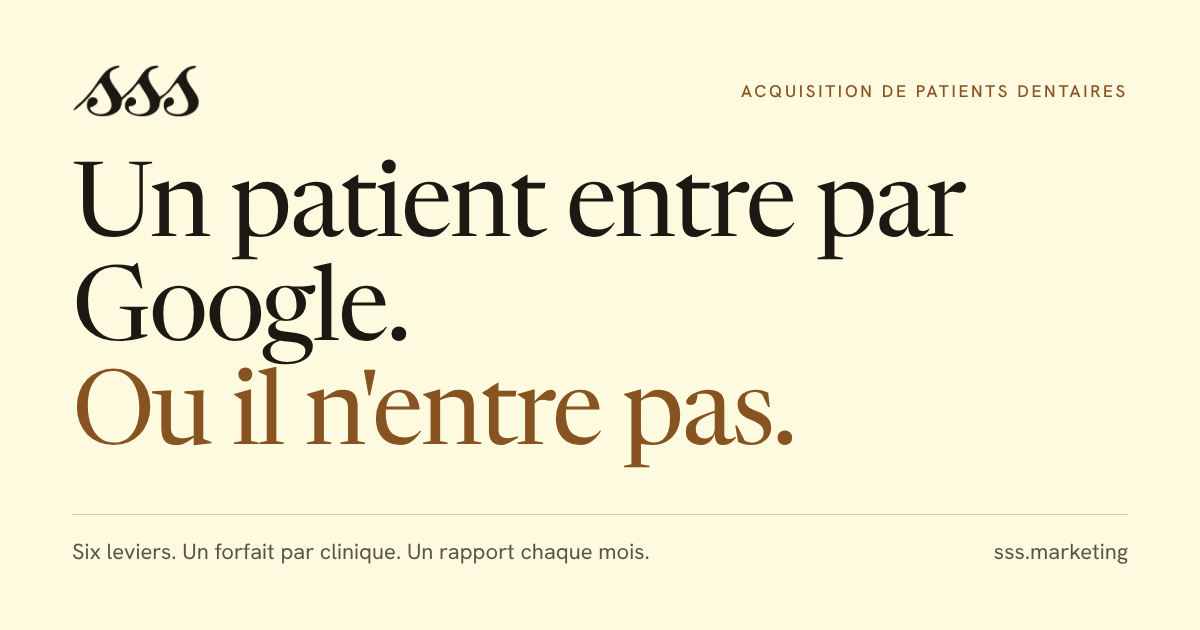
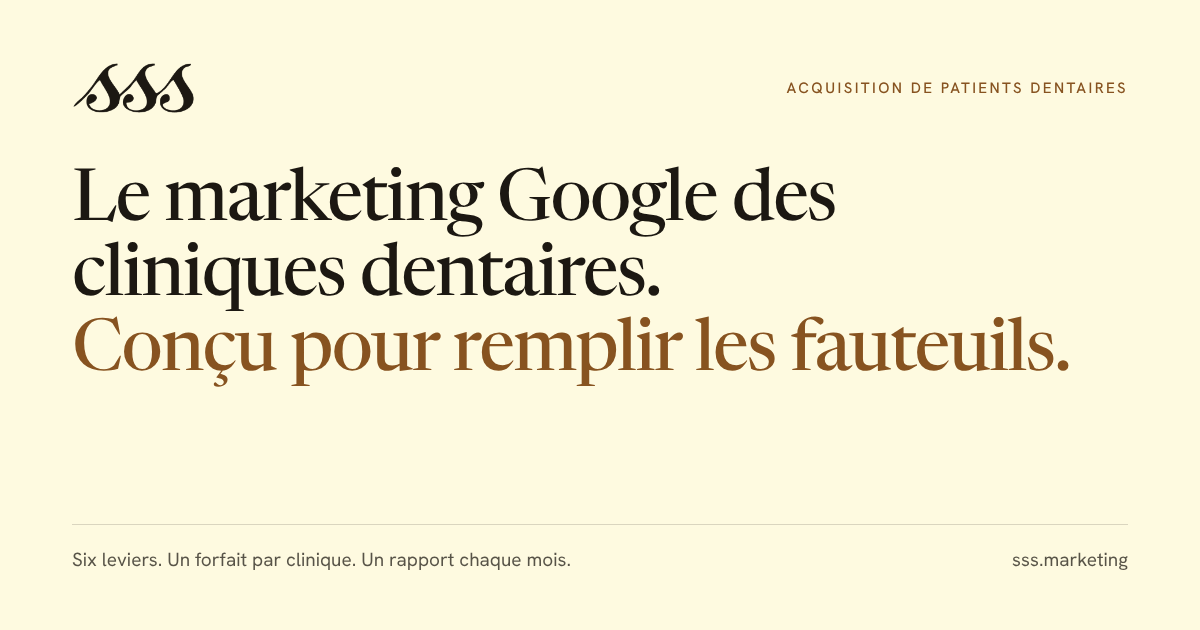
Hero: replace the Google-only through-line with a true category line
- h1: 'Le marketing Google des cliniques dentaires. Conçu pour remplir les
  fauteuils.' / 'Google marketing for dental clinics. Built to fill the
  chairs.' Drops the claim that patients only arrive through Google.
- Sub-line leads with six levers and one plan, then the free calculator.
- Share image (og-image.png) and its alt text rebuilt with the new line.
- Hero h1 scaled to clamp(40px,5.2vw,76px) so the button stays well
  inside the first screen.

Claude-Session: https://claude.ai/code/session_01Rx5PrpQEpyidQhLfgWf2gc

diff --git a/index.html b/index.html
@@ -35,7 +35,7 @@
 <meta property="og:image" content="https://sss.marketing/og-image.png">
 <meta property="og:image:width" content="1200">
 <meta property="og:image:height" content="630">
-<meta property="og:image:alt" content="SSS. Un patient entre par Google. Ou il n'entre pas.">
+<meta property="og:image:alt" content="SSS. Le marketing Google des cliniques dentaires, conçu pour remplir les fauteuils.">
 
 <!-- Twitter -->
 <meta name="twitter:card" content="summary_large_image">
@@ -282,7 +282,7 @@ nav.scrolled{padding:12px 0;border-bottom-color:var(--rule)}
 .hero-sheet{grid-column:9 / span 4}
 .hero-copy > .label{display:block;margin-bottom:28px}
 .hero h1{
-  font-size:clamp(42px,6.3vw,90px);line-height:1.0;letter-spacing:-0.025em;
+  font-size:clamp(40px,5.2vw,76px);line-height:1.02;letter-spacing:-0.025em;
   color:var(--ink);margin-bottom:32px;
 }
 .hero h1 span{display:block;text-wrap:balance}
@@ -1124,8 +1124,8 @@ footer{background:var(--forest);color:var(--paper);padding:72px 0 44px}
     <div class="grid hero-grid">
       <div class="hero-copy">
         <span class="label fade-in" data-i="eyebrow">Acquisition de patients dentaires</span>
-        <h1 class="fade-in d1"><span class="h1-a" data-i="heroTitle">Un patient entre par Google.</span> <span class="h1-b" data-i="heroTitleAccent">Ou il n'entre pas.</span></h1>
-        <p class="hero-sub fade-in d2" data-i="heroSub">Une agence qui ne fait que du dentaire. Commencez par le calculateur RCSD : installé sur votre site, gratuitement, pendant un appel de 30 minutes.</p>
+        <h1 class="fade-in d1"><span class="h1-a" data-i="heroTitle">Le marketing Google des cliniques dentaires.</span> <span class="h1-b" data-i="heroTitleAccent">Conçu pour remplir les fauteuils.</span></h1>
+        <p class="hero-sub fade-in d2" data-i="heroSub">Six leviers de croissance, un forfait par clinique. Commencez par le calculateur RCSD : installé gratuitement sur votre site, pendant un appel de 30 minutes.</p>
         <div class="hero-cta-row fade-in d3">
           <a href="#contact" class="cta-primary">
             <span data-i="heroCta">Réserver l'installation gratuite</span>
@@ -1784,8 +1784,8 @@ footer{background:var(--forest);color:var(--paper);padding:72px 0 44px}
 <script>
 (function(){
   const i18n = {
-    fr:{"metaTitle":"SSS | Acquisition de patients pour cliniques dentaires","metaDesc":"Agence marketing qui ne fait que du dentaire. Calculateur RCSD gratuit pour votre site. Six leviers de croissance, 450 $ par mois par clinique.","skipLink":"Aller au contenu","navMethod":"Méthode","navPricing":"Forfait","navTeam":"Équipe","cta":"Calculateur gratuit","eyebrow":"Acquisition de patients dentaires","heroTitle":"Un patient entre par Google.","heroTitleAccent":"Ou il n'entre pas.","heroSub":"Une agence qui ne fait que du dentaire. Commencez par le calculateur RCSD : installé sur votre site, gratuitement, pendant un appel de 30 minutes.","heroCta":"Réserver l'installation gratuite","heroCtaNote":"Gratuit. Sur Google Meet. Sans engagement.","sheetDay":"Un mardi","sheetChair":"Fauteuil 2","sheetR1":"Examen et nettoyage","sheetR2":"Nouveau patient, examen complet","sheetR3":"Urgence, douleur","sheetR4":"Couronne, préparation","sheetR5":"Examen et nettoyage","sheetOpen":"Libre","sheetNote":"Trois plages libres. Ce matin, des gens de votre quartier cherchent un dentiste sur Google.","fact1":"Associés, tous encore en clinique.","fact2Num":"100 %","fact2":"Dentaire. Aucun autre secteur.","fact3":"Leviers de croissance, un seul forfait.","priceNum":"450 $","fact4":"Par mois, par clinique.","problemLabel":"L'occasion","problemTitleA":"Vos prochains patients cherchent déjà un dentiste sur Google.","problemTitleB":"Notre travail : qu'ils vous trouvent, et qu'ils réservent.","prob1":"Une recherche « dentiste d'urgence » à 22 h","prob1Body":"Votre clinique est la première réponse, avec vos heures et un bouton pour appeler.","prob2":"« Est-ce que le RCSD me couvre ? »","prob2Body":"Le calculateur répond sur votre site, avant même l'appel. Le patient arrive en sachant ce qu'il paiera, et votre réception garde son temps pour la clinique.","prob3":"Des résultats que toute l'équipe peut lire","prob3Body":"Un tableau de bord par clinique et un rapport chaque mois, avec la facture. Levier par levier, vous voyez ce que votre budget a produit, et vous décidez avec des chiffres.","servicesLabel":"La méthode","servicesTitle":"Du clic au fauteuil.","servicesIntro":"Six leviers, quatre étapes. Chacun a ses livrables et sa ligne dans le rapport mensuel.","stage1Name":"Être trouvé","stage1Text":"Un patient cherche un dentiste près de chez lui. Vos annonces sont là au moment de la recherche.","stage2Name":"Être choisi","stage2Text":"Devant trois cliniques sur la carte, le patient compare les fiches et lit les avis.","stage3Name":"Être réservé","stage3Text":"Avant d'appeler, le patient veut savoir s'il est couvert. La réponse est sur votre site.","stage4Name":"Être mesuré","stage4Text":"Chaque levier a sa ligne dans le tableau de bord. Le rapport arrive chaque mois.","svc1Name":"Google Ads : Search et Performance Max","svc1Desc":"Mots-clés, annonces et exclusions suivis de près. Jamais laissés en pilote automatique.","svc4Name":"Google Ads : Display","svc4Desc":"Vos bannières devant les patients de votre secteur, entre deux recherches.","svc2Name":"Fiche d'établissement Google","svc2Desc":"Une fiche complète et tenue à jour, avec une réponse à chaque avis.","svc6Name":"Avis Google par plaquette NFC","svc6Desc":"Une plaquette à la réception. Le patient y pose son téléphone et laisse son avis avant de partir.","svc5Name":"RCSD : moteur de conversion interactif","svc5Desc":"L'admissibilité au RCSD en quatre questions, puis la prise de rendez-vous.","svc5Cue":"Essayer l'outil","svc3Name":"Tableau de bord et rapport mensuel","svc3Desc":"Un tableau de bord par clinique et un rapport chaque mois, lisibles par toute l'équipe.","svcDetailCue":"Livrables","detailCloseLabel":"Fermer","processLabel":"Mise en route","processIntro":"De l'audit aux campagnes actives, en trois étapes.","step1Unit":"min","step1Title":"Audit","step1Desc":"Présence Google, concurrents, occasions locales.","step2Anchor":"Plan","step2Title":"Stratégie","step2Desc":"Plan d'action, budget par levier, cibles mensuelles.","step3Unit":"jours","step3Title":"Mise en ligne","step3Desc":"Campagnes actives. Mesure dès le premier mois.","pricingLabel":"Forfait","pricingMo":"Par mois, par clinique","pricingStatement":"Le même forfait pour chaque clinique.","pricingCta":"Réserver un appel de 30 minutes","pricingMail":"Voir tous les tarifs","pf1Label":"Inclus","pf1Value":"Gestion Google","pf1Note":"Search, Display, Performance Max, fiche Google, tableau de bord par clinique, rapport mensuel, plaquette NFC.","pf2Label":"Mise en service","pf2Value":"500 $, une seule fois","pf2Note":"Mise en place clinique par clinique. Une facture par clinique.","pf3Label":"Budget publicitaire","pf3Value":"En sus, facturé au coût","pf3Note":"Votre budget Google, sans majoration. Aucuns frais cachés.","pf4Label":"Calculateur RCSD","pf4Value":"Inclus, sur mesure","pf4Note":"Ajusté à votre grille d'honoraires, aux couleurs de la clinique.","addonsLabel":"Au-delà du forfait","addon2Name":"Architecture SEO multi-succursales","addon2Desc":"Pour les groupes de trois succursales et plus. Sur demande.","filter":"Aucune caméra. Aucun TikTok. Vous restez dentiste.","fitLabel":"SSS n'est pas pour","fit1":"Les cliniques qui courent après les vues et les abonnés, au lieu des rendez-vous.","fit2":"Les propriétaires et les groupes qui veulent plus de patients, sans devenir créateurs de contenu.","fit3":"Les équipes qui veulent voir leurs résultats chaque mois : direction, gestion, réception.","faqLabel":"Questions","faqTitle":"Les questions avant de réserver.","faq1Q":"Combien ça coûte ?","faq1A":"450 $ par mois, par clinique. La mise en service, 500 $, est facturée une seule fois. Le budget publicitaire Google est en sus, facturé au coût.","faq2Q":"Qu'est-ce qui est inclus dans le forfait ?","faq2A":"Les campagnes Search, Display et Performance Max, la fiche d'établissement Google, le tableau de bord par clinique, le rapport mensuel, la plaquette NFC pour les avis et le calculateur RCSD sur mesure.","faq3Q":"Y a-t-il un contrat à long terme ?","faq3A":"Non. Trois mois au départ, puis au mois, avec un préavis de 30 jours.","faq4Q":"Combien de temps avant que les campagnes soient en ligne ?","faq4A":"14 jours. L'audit prend 30 minutes, le plan suit, puis la mise en ligne. La mesure commence dès le premier mois.","faq6Q":"Travaillez-vous avec les groupes de cliniques ?","faq6A":"Oui. Le forfait et la facture sont établis clinique par clinique. Pour les groupes de trois succursales et plus, une architecture SEO multi-succursales s'ajoute sur demande.","teamLabel":"Équipe","teamTitle":"Trois associés, tous encore en clinique.","teamSub":"Chaque campagne a un responsable. Aucun mot n'est publié sans validation.","hamzaRole":"Fondateur","hamzaName":"Hamza A.","hamzaBio":"Dix ans en marketing. Quatre ans en clinique : appels, urgences, plans de traitement. La majorité des agences n'ont jamais vu ça de l'intérieur.","shayanRole":"Partenaire · Conseiller clinique","shayanName":"Dr Shayan Araghi","shayanBio":"14 ans de pratique clinique. Plusieurs cliniques bâties de zéro. DMD, Université de Montréal. Partenaire stratégique.","aliRole":"Partenaire · Conseiller opérationnel","aliName":"Ali K.","aliBio":"Plus de 10 ans à l'intérieur des cliniques dentaires. Opérations quotidiennes, navigation des assurances, comptabilité clinique, expérience patient. Sait ce qui se passe entre le clic et le fauteuil.","closeLabel":"Réserver","closeTitle":"Un fauteuil vide coûte plus cher qu'un forfait marketing.","closeSub":"30 minutes. Google Meet. Gratuit.","closeCta":"Choisir un créneau","auditLabel":"Ce que l'appel couvre","audit1":"Le calculateur RCSD, installé sur votre site","audit2":"Votre présence sur Google","audit3":"Vos concurrents et les occasions dans votre secteur","bookingConfirmEyebrow":"Votre appel","bookingConfirmMeta":"Google Meet · 30 minutes","bookingConfirmDesc":"Installation du calculateur RCSD, puis un regard sur votre présence Google. Prévu pour le propriétaire ou le gestionnaire de la clinique.","bookingConfirmReset":"← Changer de créneau","bookingConfirmCtaEyebrow":"Réservation","bookingConfirmCtaCopy":"Confirmez votre créneau. Vous recevez la confirmation par courriel aussitôt.","bookingConfirmCta":"Confirmer la réservation","bookingStrip1":"Confirmation immédiate","bookingStrip2":"Aucune carte requise","bookingStrip3":"Annulation libre","bookingPrivacy":"Vos coordonnées servent à confirmer ce rendez-vous et à vous joindre à son sujet. Rien d'autre.","bookingIframeFallback":"Accéder directement au calendrier Google","bookingFieldName":"Nom","bookingFieldEmail":"Courriel","bookingFieldPhone":"Téléphone (facultatif)","bookingFieldClinic":"Clinique (facultatif)","bookingFieldNotes":"Notes (facultatif)","bookingSubmit":"Confirmer la réservation","bookingSubmitting":"Envoi en cours…","bookingSuccessEyebrow":"Réservation confirmée","bookingSuccessMeta":"Vous recevrez sous peu un courriel de confirmation avec un lien Google Meet.","bookingSuccessCta":"Ajouter à Google Agenda","bookingErrMissing":"Veuillez inscrire votre nom et votre courriel.","bookingErrEmail":"Adresse courriel invalide.","bookingErrSlot":"Veuillez choisir un créneau.","bookingErrTaken":"Ce créneau vient d'être réservé. Choisissez-en un autre.","bookingErrTooSoon":"Ce créneau est trop rapproché. Choisissez une heure plus tard.","bookingErrNetwork":"Impossible de joindre le service de réservation. Réessayez ou écrivez à info@sss.marketing.","bookingErrGeneric":"Une erreur est survenue. Réessayez ou écrivez à info@sss.marketing.","bookingViewDay":"Jour","bookingViewWeek":"Semaine","bookingTodayLabel":"Aujourd'hui","bookingDayEmpty":"Aucune disponibilité ce jour-là. Essayez le suivant.","footerTag":"Marketing dentaire, mesuré au fauteuil.","footerNav":"Navigation","footerNavSvc":"Méthode","footerNavProc":"Mise en route","footerNavPrice":"Forfait","footerNavTeam":"Équipe","footerContact":"Contact","footerBook":"Réserver un appel","footerLoc":"Montréal, QC","footerLegal":"© 2026 SSS Marketing. Tous droits réservés. Mesure d'audience anonyme, sans témoins.","heroTry":"Essayer le calculateur","offerLabel":"Gratuit pour les cliniques dentaires","offerTitle":"Le calculateur RCSD. Sur votre site. Gratuit.","offerLede":"« Suis-je admissible au RCSD, et combien vais-je payer ? » Votre réception répond à cette question au téléphone. Votre site peut y répondre à sa place.","offerFact1":"Quatre questions. Moins d'une minute.","offerFact2":"Vos couleurs, le nom de votre clinique.","offerFact3":"En français ou en anglais.","offerFact4":"Un bouton vers votre prise de rendez-vous.","offerDeal":"Le prix : un appel de 30 minutes avec la personne qui décide à la clinique, propriétaire ou gestionnaire. Nous faisons l'installation avec vous. Le badge « Propulsé par SSS » reste affiché. C'est tout.","offerCta":"Réserver l'installation gratuite","offerDemoTag":"Essayez-le comme un patient","pf5Label":"Engagement","pf5Value":"Trois mois au départ","pf5Note":"Ensuite au mois, avec un préavis de 30 jours.","faq0Q":"Le calculateur RCSD est-il vraiment gratuit ?","faq0A":"Oui. Nous l'installons pendant un appel de 30 minutes avec le propriétaire ou le gestionnaire de la clinique. Le badge « Propulsé par SSS » reste affiché. La version sur mesure, ajustée à votre grille d'honoraires, est incluse dans le forfait.","bookingFieldSiteOwner":"Qui gère votre site ? (facultatif)","bookingFieldCms":"Plateforme du site (facultatif)","bookingOptNone":"Choisir","bookingOptUnknown":"Je ne sais pas","bookingOwnerSelf":"Moi","bookingOwnerStaff":"Mon équipe","bookingOwnerAgency":"Une agence","bookingCmsOther":"Autre","bookingNoteOwner":"Site géré par : ","bookingNoteCms":"Plateforme : ","footerNavTarifs":"Tous les tarifs","fitLabel2":"SSS est fait pour"},
-    en:{"metaTitle":"SSS | Patient acquisition for dental clinics","metaDesc":"A marketing agency that only works with dental clinics. Free CDCP calculator for your site. Six growth levers, $450 per month per clinic.","skipLink":"Skip to content","navMethod":"Method","navPricing":"Pricing","navTeam":"Team","cta":"Free calculator","eyebrow":"Dental patient acquisition","heroTitle":"A patient walks through Google","heroTitleAccent":"or they don't walk in at all.","heroSub":"An agency that only works with dental clinics. Start with the CDCP calculator: installed on your site, free, during one 30-minute call.","heroCta":"Book the free install","heroCtaNote":"Free. On Google Meet. No commitment.","sheetDay":"A Tuesday","sheetChair":"Chair 2","sheetR1":"Exam and cleaning","sheetR2":"New patient, complete exam","sheetR3":"Emergency, pain","sheetR4":"Crown, preparation","sheetR5":"Exam and cleaning","sheetOpen":"Open","sheetNote":"Three open slots. This morning, people in your neighbourhood are searching Google for a dentist.","fact1":"Partners, all still working in clinics.","fact2Num":"100%","fact2":"Dental. No other industry.","fact3":"Growth levers, one plan.","priceNum":"$450","fact4":"Per month, per clinic.","problemLabel":"The opportunity","problemTitleA":"Your next patients are already searching Google for a dentist.","problemTitleB":"Our job: they find you, and they book.","prob1":"A 10 p.m. search for an emergency dentist","prob1Body":"Your clinic is the first answer, with your hours and a button to call.","prob2":"“Does the CDCP cover me?”","prob2Body":"The calculator answers on your site, before the call. The patient arrives knowing what they will pay, and your front desk keeps its time for the clinic.","prob3":"Results the whole team can read","prob3Body":"One dashboard per clinic and a report every month, with the invoice. Lever by lever, you see what your budget produced, and you decide with the numbers in front of you.","servicesLabel":"The method","servicesTitle":"From the click to the chair.","servicesIntro":"Six levers, four stages. Each one has its deliverables and its line in the monthly report.","stage1Name":"Get found","stage1Text":"A patient searches for a dentist nearby. Your ads are there at the moment of the search.","stage2Name":"Get chosen","stage2Text":"With three clinics on the map, the patient compares the profiles and reads the reviews.","stage3Name":"Get booked","stage3Text":"Before calling, the patient wants to know if they are covered. The answer is on your site.","stage4Name":"Get measured","stage4Text":"Every lever has its line on the dashboard. The report arrives every month.","svc1Name":"Google Ads: Search and Performance Max","svc1Desc":"Keywords, ads and exclusions watched closely. Never left on autopilot.","svc4Name":"Google Ads: Display","svc4Desc":"Your banners in front of patients in your area, between searches.","svc2Name":"Google Business Profile","svc2Desc":"A complete, current profile, with a reply to every review.","svc6Name":"Google reviews by NFC pad","svc6Desc":"A pad at the front desk. The patient taps it with their phone and leaves a review before leaving.","svc5Name":"CDCP interactive conversion engine","svc5Desc":"CDCP eligibility in four questions, then the booking.","svc5Cue":"Try the tool","svc3Name":"Dashboard and monthly report","svc3Desc":"One dashboard per clinic and a report every month, readable by the whole team.","svcDetailCue":"Deliverables","detailCloseLabel":"Close","processLabel":"Getting started","processIntro":"From the audit to live campaigns, in three steps.","step1Unit":"min","step1Title":"Audit","step1Desc":"Google presence, competitors, local opportunities.","step2Anchor":"Plan","step2Title":"Strategy","step2Desc":"Action plan, budget per lever, monthly targets.","step3Unit":"days","step3Title":"Launch","step3Desc":"Campaigns live. Measured from the first month.","pricingLabel":"Pricing","pricingMo":"Per month, per clinic","pricingStatement":"The same plan for every clinic.","pricingCta":"Book a 30-minute call","pricingMail":"See all pricing","pf1Label":"Included","pf1Value":"Google management","pf1Note":"Search, Display, Performance Max, Google Business Profile, per-clinic dashboard, monthly report, NFC pad.","pf2Label":"Setup","pf2Value":"$500, one time","pf2Note":"Set up clinic by clinic. One invoice per clinic.","pf3Label":"Ad budget","pf3Value":"Extra, billed at cost","pf3Note":"Your Google budget, with no markup. No hidden fees.","pf4Label":"CDCP calculator","pf4Value":"Included, custom","pf4Note":"Set to your fee schedule, in your clinic's colours.","addonsLabel":"Beyond the plan","addon2Name":"Multi-location SEO architecture","addon2Desc":"For groups of three locations or more. On request.","filter":"No camera. No TikTok. You stay a dentist.","fitLabel":"SSS is not for","fit1":"Clinics chasing views and followers instead of booked appointments.","fit2":"Owners and groups who want more patients without becoming content creators.","fit3":"Teams that want to see their results every month: owners, managers, front desk.","faqLabel":"Questions","faqTitle":"The questions before booking.","faq1Q":"How much does it cost?","faq1A":"$450 per month, per clinic. Setup, $500, is billed once. The Google ad budget is extra, billed at cost.","faq2Q":"What is included in the plan?","faq2A":"Search, Display and Performance Max campaigns, the Google Business Profile, the per-clinic dashboard, the monthly report, the NFC pad for reviews and the custom CDCP calculator.","faq3Q":"Is there a long-term contract?","faq3A":"No. Three months to start, then month to month, with 30 days' notice.","faq4Q":"How long before campaigns are live?","faq4A":"14 days. The audit takes 30 minutes, the plan follows, then the launch. Measurement starts in the first month.","faq6Q":"Do you work with clinic groups?","faq6A":"Yes. The plan and the invoice are set clinic by clinic. For groups of three locations or more, a multi-location SEO architecture can be added on request.","teamLabel":"Team","teamTitle":"Three partners, all still working in clinics.","teamSub":"Every campaign has an owner. Nothing is published without review.","hamzaRole":"Founder","hamzaName":"Hamza A.","hamzaBio":"Ten years in marketing. Four years inside a clinic: phones, emergencies, treatment plans. Most agencies haven't seen this from the inside.","shayanRole":"Partner · Clinical advisor","shayanName":"Dr. Shayan Araghi","shayanBio":"14 years of clinical practice. Several clinics built from scratch. DMD, Université de Montréal. Strategic partner.","aliRole":"Partner · Operations advisor","aliName":"Ali K.","aliBio":"10+ years inside dental clinics. Daily operations, insurance navigation, clinic accounting, patient experience. Knows exactly what happens between the click and the chair.","closeLabel":"Book","closeTitle":"An empty chair costs more than a marketing plan.","closeSub":"30 minutes. Google Meet. Free.","closeCta":"Pick a time","auditLabel":"What the call covers","audit1":"The CDCP calculator, installed on your site","audit2":"Your presence on Google","audit3":"Your competitors and the opportunities in your area","bookingConfirmEyebrow":"Your call","bookingConfirmMeta":"Google Meet · 30 minutes","bookingConfirmDesc":"CDCP calculator install, then a look at your Google presence. Meant for the clinic's owner or practice manager.","bookingConfirmReset":"← Change the time","bookingConfirmCtaEyebrow":"Booking","bookingConfirmCtaCopy":"Confirm your time. The confirmation arrives by email right away.","bookingConfirmCta":"Confirm booking","bookingStrip1":"Instant confirmation","bookingStrip2":"No card required","bookingStrip3":"Cancel anytime","bookingPrivacy":"Your details are used to confirm this appointment and to reach you about it. Nothing else.","bookingIframeFallback":"Open Google Calendar directly","bookingFieldName":"Name","bookingFieldEmail":"Email","bookingFieldPhone":"Phone (optional)","bookingFieldClinic":"Clinic (optional)","bookingFieldNotes":"Notes (optional)","bookingSubmit":"Confirm booking","bookingSubmitting":"Sending…","bookingSuccessEyebrow":"Booking confirmed","bookingSuccessMeta":"A confirmation email with a Google Meet link is on its way.","bookingSuccessCta":"Add to Google Calendar","bookingErrMissing":"Please enter your name and email.","bookingErrEmail":"Invalid email address.","bookingErrSlot":"Please pick a time.","bookingErrTaken":"That time was just booked. Please pick another.","bookingErrTooSoon":"That time is too soon. Please pick a later one.","bookingErrNetwork":"Could not reach the booking service. Please retry or email info@sss.marketing.","bookingErrGeneric":"Something went wrong. Please retry or email info@sss.marketing.","bookingViewDay":"Day","bookingViewWeek":"Week","bookingTodayLabel":"Today","bookingDayEmpty":"No availability that day. Try the next one.","footerTag":"Dental marketing, measured at the chair.","footerNav":"Navigation","footerNavSvc":"Method","footerNavProc":"Getting started","footerNavPrice":"Pricing","footerNavTeam":"Team","footerContact":"Contact","footerBook":"Book a call","footerLoc":"Montreal, QC","footerLegal":"© 2026 SSS Marketing. All rights reserved. Anonymous visit counts, no cookies.","heroTry":"Try the calculator","offerLabel":"Free for dental clinics","offerTitle":"The CDCP calculator. On your site. Free.","offerLede":"“Do I qualify for the CDCP, and what will I pay?” Your front desk answers that question on the phone. Your website can answer it instead.","offerFact1":"Four questions. Under a minute.","offerFact2":"Your colours, your clinic's name.","offerFact3":"English or French.","offerFact4":"A button to your booking page.","offerDeal":"The price: one 30-minute call with the person who makes decisions at the clinic, the owner or the practice manager. We do the install with you. The “Powered by SSS” badge stays on. That's the whole deal.","offerCta":"Book the free install","offerDemoTag":"Try it as a patient would","pf5Label":"Term","pf5Value":"Three months to start","pf5Note":"Then month to month, with 30 days' notice.","faq0Q":"Is the CDCP calculator really free?","faq0A":"Yes. We install it during one 30-minute call with the clinic's owner or practice manager. The “Powered by SSS” badge stays on. The custom version, set to your fee schedule, is included in the plan.","bookingFieldSiteOwner":"Who manages your website? (optional)","bookingFieldCms":"Website platform (optional)","bookingOptNone":"Select","bookingOptUnknown":"Not sure","bookingOwnerSelf":"Me","bookingOwnerStaff":"My staff","bookingOwnerAgency":"An agency","bookingCmsOther":"Other","bookingNoteOwner":"Site managed by: ","bookingNoteCms":"Platform: ","footerNavTarifs":"All pricing","fitLabel2":"SSS is built for"}
+    fr:{"metaTitle":"SSS | Acquisition de patients pour cliniques dentaires","metaDesc":"Agence marketing qui ne fait que du dentaire. Calculateur RCSD gratuit pour votre site. Six leviers de croissance, 450 $ par mois par clinique.","skipLink":"Aller au contenu","navMethod":"Méthode","navPricing":"Forfait","navTeam":"Équipe","cta":"Calculateur gratuit","eyebrow":"Acquisition de patients dentaires","heroTitle":"Le marketing Google des cliniques dentaires.","heroTitleAccent":"Conçu pour remplir les fauteuils.","heroSub":"Six leviers de croissance, un forfait par clinique. Commencez par le calculateur RCSD : installé gratuitement sur votre site, pendant un appel de 30 minutes.","heroCta":"Réserver l'installation gratuite","heroCtaNote":"Gratuit. Sur Google Meet. Sans engagement.","sheetDay":"Un mardi","sheetChair":"Fauteuil 2","sheetR1":"Examen et nettoyage","sheetR2":"Nouveau patient, examen complet","sheetR3":"Urgence, douleur","sheetR4":"Couronne, préparation","sheetR5":"Examen et nettoyage","sheetOpen":"Libre","sheetNote":"Trois plages libres. Ce matin, des gens de votre quartier cherchent un dentiste sur Google.","fact1":"Associés, tous encore en clinique.","fact2Num":"100 %","fact2":"Dentaire. Aucun autre secteur.","fact3":"Leviers de croissance, un seul forfait.","priceNum":"450 $","fact4":"Par mois, par clinique.","problemLabel":"L'occasion","problemTitleA":"Vos prochains patients cherchent déjà un dentiste sur Google.","problemTitleB":"Notre travail : qu'ils vous trouvent, et qu'ils réservent.","prob1":"Une recherche « dentiste d'urgence » à 22 h","prob1Body":"Votre clinique est la première réponse, avec vos heures et un bouton pour appeler.","prob2":"« Est-ce que le RCSD me couvre ? »","prob2Body":"Le calculateur répond sur votre site, avant même l'appel. Le patient arrive en sachant ce qu'il paiera, et votre réception garde son temps pour la clinique.","prob3":"Des résultats que toute l'équipe peut lire","prob3Body":"Un tableau de bord par clinique et un rapport chaque mois, avec la facture. Levier par levier, vous voyez ce que votre budget a produit, et vous décidez avec des chiffres.","servicesLabel":"La méthode","servicesTitle":"Du clic au fauteuil.","servicesIntro":"Six leviers, quatre étapes. Chacun a ses livrables et sa ligne dans le rapport mensuel.","stage1Name":"Être trouvé","stage1Text":"Un patient cherche un dentiste près de chez lui. Vos annonces sont là au moment de la recherche.","stage2Name":"Être choisi","stage2Text":"Devant trois cliniques sur la carte, le patient compare les fiches et lit les avis.","stage3Name":"Être réservé","stage3Text":"Avant d'appeler, le patient veut savoir s'il est couvert. La réponse est sur votre site.","stage4Name":"Être mesuré","stage4Text":"Chaque levier a sa ligne dans le tableau de bord. Le rapport arrive chaque mois.","svc1Name":"Google Ads : Search et Performance Max","svc1Desc":"Mots-clés, annonces et exclusions suivis de près. Jamais laissés en pilote automatique.","svc4Name":"Google Ads : Display","svc4Desc":"Vos bannières devant les patients de votre secteur, entre deux recherches.","svc2Name":"Fiche d'établissement Google","svc2Desc":"Une fiche complète et tenue à jour, avec une réponse à chaque avis.","svc6Name":"Avis Google par plaquette NFC","svc6Desc":"Une plaquette à la réception. Le patient y pose son téléphone et laisse son avis avant de partir.","svc5Name":"RCSD : moteur de conversion interactif","svc5Desc":"L'admissibilité au RCSD en quatre questions, puis la prise de rendez-vous.","svc5Cue":"Essayer l'outil","svc3Name":"Tableau de bord et rapport mensuel","svc3Desc":"Un tableau de bord par clinique et un rapport chaque mois, lisibles par toute l'équipe.","svcDetailCue":"Livrables","detailCloseLabel":"Fermer","processLabel":"Mise en route","processIntro":"De l'audit aux campagnes actives, en trois étapes.","step1Unit":"min","step1Title":"Audit","step1Desc":"Présence Google, concurrents, occasions locales.","step2Anchor":"Plan","step2Title":"Stratégie","step2Desc":"Plan d'action, budget par levier, cibles mensuelles.","step3Unit":"jours","step3Title":"Mise en ligne","step3Desc":"Campagnes actives. Mesure dès le premier mois.","pricingLabel":"Forfait","pricingMo":"Par mois, par clinique","pricingStatement":"Le même forfait pour chaque clinique.","pricingCta":"Réserver un appel de 30 minutes","pricingMail":"Voir tous les tarifs","pf1Label":"Inclus","pf1Value":"Gestion Google","pf1Note":"Search, Display, Performance Max, fiche Google, tableau de bord par clinique, rapport mensuel, plaquette NFC.","pf2Label":"Mise en service","pf2Value":"500 $, une seule fois","pf2Note":"Mise en place clinique par clinique. Une facture par clinique.","pf3Label":"Budget publicitaire","pf3Value":"En sus, facturé au coût","pf3Note":"Votre budget Google, sans majoration. Aucuns frais cachés.","pf4Label":"Calculateur RCSD","pf4Value":"Inclus, sur mesure","pf4Note":"Ajusté à votre grille d'honoraires, aux couleurs de la clinique.","addonsLabel":"Au-delà du forfait","addon2Name":"Architecture SEO multi-succursales","addon2Desc":"Pour les groupes de trois succursales et plus. Sur demande.","filter":"Aucune caméra. Aucun TikTok. Vous restez dentiste.","fitLabel":"SSS n'est pas pour","fit1":"Les cliniques qui courent après les vues et les abonnés, au lieu des rendez-vous.","fit2":"Les propriétaires et les groupes qui veulent plus de patients, sans devenir créateurs de contenu.","fit3":"Les équipes qui veulent voir leurs résultats chaque mois : direction, gestion, réception.","faqLabel":"Questions","faqTitle":"Les questions avant de réserver.","faq1Q":"Combien ça coûte ?","faq1A":"450 $ par mois, par clinique. La mise en service, 500 $, est facturée une seule fois. Le budget publicitaire Google est en sus, facturé au coût.","faq2Q":"Qu'est-ce qui est inclus dans le forfait ?","faq2A":"Les campagnes Search, Display et Performance Max, la fiche d'établissement Google, le tableau de bord par clinique, le rapport mensuel, la plaquette NFC pour les avis et le calculateur RCSD sur mesure.","faq3Q":"Y a-t-il un contrat à long terme ?","faq3A":"Non. Trois mois au départ, puis au mois, avec un préavis de 30 jours.","faq4Q":"Combien de temps avant que les campagnes soient en ligne ?","faq4A":"14 jours. L'audit prend 30 minutes, le plan suit, puis la mise en ligne. La mesure commence dès le premier mois.","faq6Q":"Travaillez-vous avec les groupes de cliniques ?","faq6A":"Oui. Le forfait et la facture sont établis clinique par clinique. Pour les groupes de trois succursales et plus, une architecture SEO multi-succursales s'ajoute sur demande.","teamLabel":"Équipe","teamTitle":"Trois associés, tous encore en clinique.","teamSub":"Chaque campagne a un responsable. Aucun mot n'est publié sans validation.","hamzaRole":"Fondateur","hamzaName":"Hamza A.","hamzaBio":"Dix ans en marketing. Quatre ans en clinique : appels, urgences, plans de traitement. La majorité des agences n'ont jamais vu ça de l'intérieur.","shayanRole":"Partenaire · Conseiller clinique","shayanName":"Dr Shayan Araghi","shayanBio":"14 ans de pratique clinique. Plusieurs cliniques bâties de zéro. DMD, Université de Montréal. Partenaire stratégique.","aliRole":"Partenaire · Conseiller opérationnel","aliName":"Ali K.","aliBio":"Plus de 10 ans à l'intérieur des cliniques dentaires. Opérations quotidiennes, navigation des assurances, comptabilité clinique, expérience patient. Sait ce qui se passe entre le clic et le fauteuil.","closeLabel":"Réserver","closeTitle":"Un fauteuil vide coûte plus cher qu'un forfait marketing.","closeSub":"30 minutes. Google Meet. Gratuit.","closeCta":"Choisir un créneau","auditLabel":"Ce que l'appel couvre","audit1":"Le calculateur RCSD, installé sur votre site","audit2":"Votre présence sur Google","audit3":"Vos concurrents et les occasions dans votre secteur","bookingConfirmEyebrow":"Votre appel","bookingConfirmMeta":"Google Meet · 30 minutes","bookingConfirmDesc":"Installation du calculateur RCSD, puis un regard sur votre présence Google. Prévu pour le propriétaire ou le gestionnaire de la clinique.","bookingConfirmReset":"← Changer de créneau","bookingConfirmCtaEyebrow":"Réservation","bookingConfirmCtaCopy":"Confirmez votre créneau. Vous recevez la confirmation par courriel aussitôt.","bookingConfirmCta":"Confirmer la réservation","bookingStrip1":"Confirmation immédiate","bookingStrip2":"Aucune carte requise","bookingStrip3":"Annulation libre","bookingPrivacy":"Vos coordonnées servent à confirmer ce rendez-vous et à vous joindre à son sujet. Rien d'autre.","bookingIframeFallback":"Accéder directement au calendrier Google","bookingFieldName":"Nom","bookingFieldEmail":"Courriel","bookingFieldPhone":"Téléphone (facultatif)","bookingFieldClinic":"Clinique (facultatif)","bookingFieldNotes":"Notes (facultatif)","bookingSubmit":"Confirmer la réservation","bookingSubmitting":"Envoi en cours…","bookingSuccessEyebrow":"Réservation confirmée","bookingSuccessMeta":"Vous recevrez sous peu un courriel de confirmation avec un lien Google Meet.","bookingSuccessCta":"Ajouter à Google Agenda","bookingErrMissing":"Veuillez inscrire votre nom et votre courriel.","bookingErrEmail":"Adresse courriel invalide.","bookingErrSlot":"Veuillez choisir un créneau.","bookingErrTaken":"Ce créneau vient d'être réservé. Choisissez-en un autre.","bookingErrTooSoon":"Ce créneau est trop rapproché. Choisissez une heure plus tard.","bookingErrNetwork":"Impossible de joindre le service de réservation. Réessayez ou écrivez à info@sss.marketing.","bookingErrGeneric":"Une erreur est survenue. Réessayez ou écrivez à info@sss.marketing.","bookingViewDay":"Jour","bookingViewWeek":"Semaine","bookingTodayLabel":"Aujourd'hui","bookingDayEmpty":"Aucune disponibilité ce jour-là. Essayez le suivant.","footerTag":"Marketing dentaire, mesuré au fauteuil.","footerNav":"Navigation","footerNavSvc":"Méthode","footerNavProc":"Mise en route","footerNavPrice":"Forfait","footerNavTeam":"Équipe","footerContact":"Contact","footerBook":"Réserver un appel","footerLoc":"Montréal, QC","footerLegal":"© 2026 SSS Marketing. Tous droits réservés. Mesure d'audience anonyme, sans témoins.","heroTry":"Essayer le calculateur","offerLabel":"Gratuit pour les cliniques dentaires","offerTitle":"Le calculateur RCSD. Sur votre site. Gratuit.","offerLede":"« Suis-je admissible au RCSD, et combien vais-je payer ? » Votre réception répond à cette question au téléphone. Votre site peut y répondre à sa place.","offerFact1":"Quatre questions. Moins d'une minute.","offerFact2":"Vos couleurs, le nom de votre clinique.","offerFact3":"En français ou en anglais.","offerFact4":"Un bouton vers votre prise de rendez-vous.","offerDeal":"Le prix : un appel de 30 minutes avec la personne qui décide à la clinique, propriétaire ou gestionnaire. Nous faisons l'installation avec vous. Le badge « Propulsé par SSS » reste affiché. C'est tout.","offerCta":"Réserver l'installation gratuite","offerDemoTag":"Essayez-le comme un patient","pf5Label":"Engagement","pf5Value":"Trois mois au départ","pf5Note":"Ensuite au mois, avec un préavis de 30 jours.","faq0Q":"Le calculateur RCSD est-il vraiment gratuit ?","faq0A":"Oui. Nous l'installons pendant un appel de 30 minutes avec le propriétaire ou le gestionnaire de la clinique. Le badge « Propulsé par SSS » reste affiché. La version sur mesure, ajustée à votre grille d'honoraires, est incluse dans le forfait.","bookingFieldSiteOwner":"Qui gère votre site ? (facultatif)","bookingFieldCms":"Plateforme du site (facultatif)","bookingOptNone":"Choisir","bookingOptUnknown":"Je ne sais pas","bookingOwnerSelf":"Moi","bookingOwnerStaff":"Mon équipe","bookingOwnerAgency":"Une agence","bookingCmsOther":"Autre","bookingNoteOwner":"Site géré par : ","bookingNoteCms":"Plateforme : ","footerNavTarifs":"Tous les tarifs","fitLabel2":"SSS est fait pour"},
+    en:{"metaTitle":"SSS | Patient acquisition for dental clinics","metaDesc":"A marketing agency that only works with dental clinics. Free CDCP calculator for your site. Six growth levers, $450 per month per clinic.","skipLink":"Skip to content","navMethod":"Method","navPricing":"Pricing","navTeam":"Team","cta":"Free calculator","eyebrow":"Dental patient acquisition","heroTitle":"Google marketing for dental clinics.","heroTitleAccent":"Built to fill the chairs.","heroSub":"Six growth levers, one plan per clinic. Start with the CDCP calculator: installed on your site, free, during one 30-minute call.","heroCta":"Book the free install","heroCtaNote":"Free. On Google Meet. No commitment.","sheetDay":"A Tuesday","sheetChair":"Chair 2","sheetR1":"Exam and cleaning","sheetR2":"New patient, complete exam","sheetR3":"Emergency, pain","sheetR4":"Crown, preparation","sheetR5":"Exam and cleaning","sheetOpen":"Open","sheetNote":"Three open slots. This morning, people in your neighbourhood are searching Google for a dentist.","fact1":"Partners, all still working in clinics.","fact2Num":"100%","fact2":"Dental. No other industry.","fact3":"Growth levers, one plan.","priceNum":"$450","fact4":"Per month, per clinic.","problemLabel":"The opportunity","problemTitleA":"Your next patients are already searching Google for a dentist.","problemTitleB":"Our job: they find you, and they book.","prob1":"A 10 p.m. search for an emergency dentist","prob1Body":"Your clinic is the first answer, with your hours and a button to call.","prob2":"“Does the CDCP cover me?”","prob2Body":"The calculator answers on your site, before the call. The patient arrives knowing what they will pay, and your front desk keeps its time for the clinic.","prob3":"Results the whole team can read","prob3Body":"One dashboard per clinic and a report every month, with the invoice. Lever by lever, you see what your budget produced, and you decide with the numbers in front of you.","servicesLabel":"The method","servicesTitle":"From the click to the chair.","servicesIntro":"Six levers, four stages. Each one has its deliverables and its line in the monthly report.","stage1Name":"Get found","stage1Text":"A patient searches for a dentist nearby. Your ads are there at the moment of the search.","stage2Name":"Get chosen","stage2Text":"With three clinics on the map, the patient compares the profiles and reads the reviews.","stage3Name":"Get booked","stage3Text":"Before calling, the patient wants to know if they are covered. The answer is on your site.","stage4Name":"Get measured","stage4Text":"Every lever has its line on the dashboard. The report arrives every month.","svc1Name":"Google Ads: Search and Performance Max","svc1Desc":"Keywords, ads and exclusions watched closely. Never left on autopilot.","svc4Name":"Google Ads: Display","svc4Desc":"Your banners in front of patients in your area, between searches.","svc2Name":"Google Business Profile","svc2Desc":"A complete, current profile, with a reply to every review.","svc6Name":"Google reviews by NFC pad","svc6Desc":"A pad at the front desk. The patient taps it with their phone and leaves a review before leaving.","svc5Name":"CDCP interactive conversion engine","svc5Desc":"CDCP eligibility in four questions, then the booking.","svc5Cue":"Try the tool","svc3Name":"Dashboard and monthly report","svc3Desc":"One dashboard per clinic and a report every month, readable by the whole team.","svcDetailCue":"Deliverables","detailCloseLabel":"Close","processLabel":"Getting started","processIntro":"From the audit to live campaigns, in three steps.","step1Unit":"min","step1Title":"Audit","step1Desc":"Google presence, competitors, local opportunities.","step2Anchor":"Plan","step2Title":"Strategy","step2Desc":"Action plan, budget per lever, monthly targets.","step3Unit":"days","step3Title":"Launch","step3Desc":"Campaigns live. Measured from the first month.","pricingLabel":"Pricing","pricingMo":"Per month, per clinic","pricingStatement":"The same plan for every clinic.","pricingCta":"Book a 30-minute call","pricingMail":"See all pricing","pf1Label":"Included","pf1Value":"Google management","pf1Note":"Search, Display, Performance Max, Google Business Profile, per-clinic dashboard, monthly report, NFC pad.","pf2Label":"Setup","pf2Value":"$500, one time","pf2Note":"Set up clinic by clinic. One invoice per clinic.","pf3Label":"Ad budget","pf3Value":"Extra, billed at cost","pf3Note":"Your Google budget, with no markup. No hidden fees.","pf4Label":"CDCP calculator","pf4Value":"Included, custom","pf4Note":"Set to your fee schedule, in your clinic's colours.","addonsLabel":"Beyond the plan","addon2Name":"Multi-location SEO architecture","addon2Desc":"For groups of three locations or more. On request.","filter":"No camera. No TikTok. You stay a dentist.","fitLabel":"SSS is not for","fit1":"Clinics chasing views and followers instead of booked appointments.","fit2":"Owners and groups who want more patients without becoming content creators.","fit3":"Teams that want to see their results every month: owners, managers, front desk.","faqLabel":"Questions","faqTitle":"The questions before booking.","faq1Q":"How much does it cost?","faq1A":"$450 per month, per clinic. Setup, $500, is billed once. The Google ad budget is extra, billed at cost.","faq2Q":"What is included in the plan?","faq2A":"Search, Display and Performance Max campaigns, the Google Business Profile, the per-clinic dashboard, the monthly report, the NFC pad for reviews and the custom CDCP calculator.","faq3Q":"Is there a long-term contract?","faq3A":"No. Three months to start, then month to month, with 30 days' notice.","faq4Q":"How long before campaigns are live?","faq4A":"14 days. The audit takes 30 minutes, the plan follows, then the launch. Measurement starts in the first month.","faq6Q":"Do you work with clinic groups?","faq6A":"Yes. The plan and the invoice are set clinic by clinic. For groups of three locations or more, a multi-location SEO architecture can be added on request.","teamLabel":"Team","teamTitle":"Three partners, all still working in clinics.","teamSub":"Every campaign has an owner. Nothing is published without review.","hamzaRole":"Founder","hamzaName":"Hamza A.","hamzaBio":"Ten years in marketing. Four years inside a clinic: phones, emergencies, treatment plans. Most agencies haven't seen this from the inside.","shayanRole":"Partner · Clinical advisor","shayanName":"Dr. Shayan Araghi","shayanBio":"14 years of clinical practice. Several clinics built from scratch. DMD, Université de Montréal. Strategic partner.","aliRole":"Partner · Operations advisor","aliName":"Ali K.","aliBio":"10+ years inside dental clinics. Daily operations, insurance navigation, clinic accounting, patient experience. Knows exactly what happens between the click and the chair.","closeLabel":"Book","closeTitle":"An empty chair costs more than a marketing plan.","closeSub":"30 minutes. Google Meet. Free.","closeCta":"Pick a time","auditLabel":"What the call covers","audit1":"The CDCP calculator, installed on your site","audit2":"Your presence on Google","audit3":"Your competitors and the opportunities in your area","bookingConfirmEyebrow":"Your call","bookingConfirmMeta":"Google Meet · 30 minutes","bookingConfirmDesc":"CDCP calculator install, then a look at your Google presence. Meant for the clinic's owner or practice manager.","bookingConfirmReset":"← Change the time","bookingConfirmCtaEyebrow":"Booking","bookingConfirmCtaCopy":"Confirm your time. The confirmation arrives by email right away.","bookingConfirmCta":"Confirm booking","bookingStrip1":"Instant confirmation","bookingStrip2":"No card required","bookingStrip3":"Cancel anytime","bookingPrivacy":"Your details are used to confirm this appointment and to reach you about it. Nothing else.","bookingIframeFallback":"Open Google Calendar directly","bookingFieldName":"Name","bookingFieldEmail":"Email","bookingFieldPhone":"Phone (optional)","bookingFieldClinic":"Clinic (optional)","bookingFieldNotes":"Notes (optional)","bookingSubmit":"Confirm booking","bookingSubmitting":"Sending…","bookingSuccessEyebrow":"Booking confirmed","bookingSuccessMeta":"A confirmation email with a Google Meet link is on its way.","bookingSuccessCta":"Add to Google Calendar","bookingErrMissing":"Please enter your name and email.","bookingErrEmail":"Invalid email address.","bookingErrSlot":"Please pick a time.","bookingErrTaken":"That time was just booked. Please pick another.","bookingErrTooSoon":"That time is too soon. Please pick a later one.","bookingErrNetwork":"Could not reach the booking service. Please retry or email info@sss.marketing.","bookingErrGeneric":"Something went wrong. Please retry or email info@sss.marketing.","bookingViewDay":"Day","bookingViewWeek":"Week","bookingTodayLabel":"Today","bookingDayEmpty":"No availability that day. Try the next one.","footerTag":"Dental marketing, measured at the chair.","footerNav":"Navigation","footerNavSvc":"Method","footerNavProc":"Getting started","footerNavPrice":"Pricing","footerNavTeam":"Team","footerContact":"Contact","footerBook":"Book a call","footerLoc":"Montreal, QC","footerLegal":"© 2026 SSS Marketing. All rights reserved. Anonymous visit counts, no cookies.","heroTry":"Try the calculator","offerLabel":"Free for dental clinics","offerTitle":"The CDCP calculator. On your site. Free.","offerLede":"“Do I qualify for the CDCP, and what will I pay?” Your front desk answers that question on the phone. Your website can answer it instead.","offerFact1":"Four questions. Under a minute.","offerFact2":"Your colours, your clinic's name.","offerFact3":"English or French.","offerFact4":"A button to your booking page.","offerDeal":"The price: one 30-minute call with the person who makes decisions at the clinic, the owner or the practice manager. We do the install with you. The “Powered by SSS” badge stays on. That's the whole deal.","offerCta":"Book the free install","offerDemoTag":"Try it as a patient would","pf5Label":"Term","pf5Value":"Three months to start","pf5Note":"Then month to month, with 30 days' notice.","faq0Q":"Is the CDCP calculator really free?","faq0A":"Yes. We install it during one 30-minute call with the clinic's owner or practice manager. The “Powered by SSS” badge stays on. The custom version, set to your fee schedule, is included in the plan.","bookingFieldSiteOwner":"Who manages your website? (optional)","bookingFieldCms":"Website platform (optional)","bookingOptNone":"Select","bookingOptUnknown":"Not sure","bookingOwnerSelf":"Me","bookingOwnerStaff":"My staff","bookingOwnerAgency":"An agency","bookingCmsOther":"Other","bookingNoteOwner":"Site managed by: ","bookingNoteCms":"Platform: ","footerNavTarifs":"All pricing","fitLabel2":"SSS is built for"}
   };
 
   const svcDetail = {
